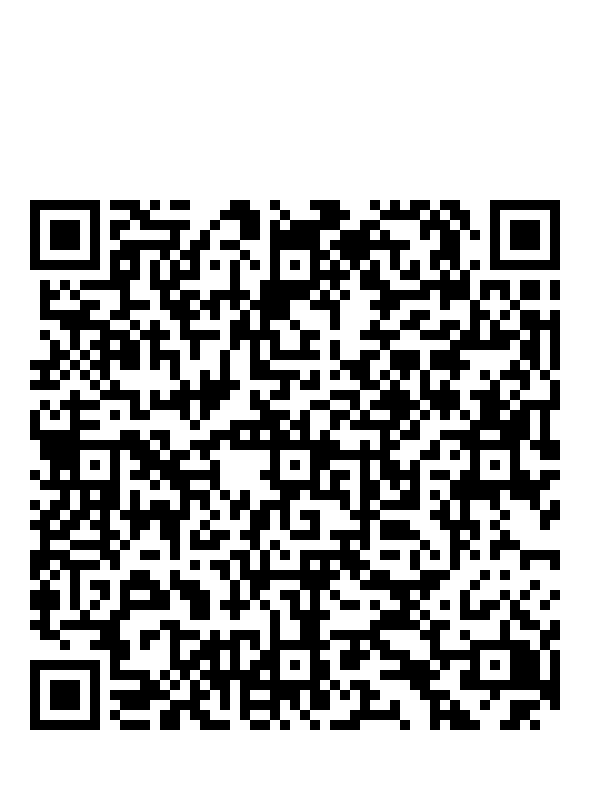
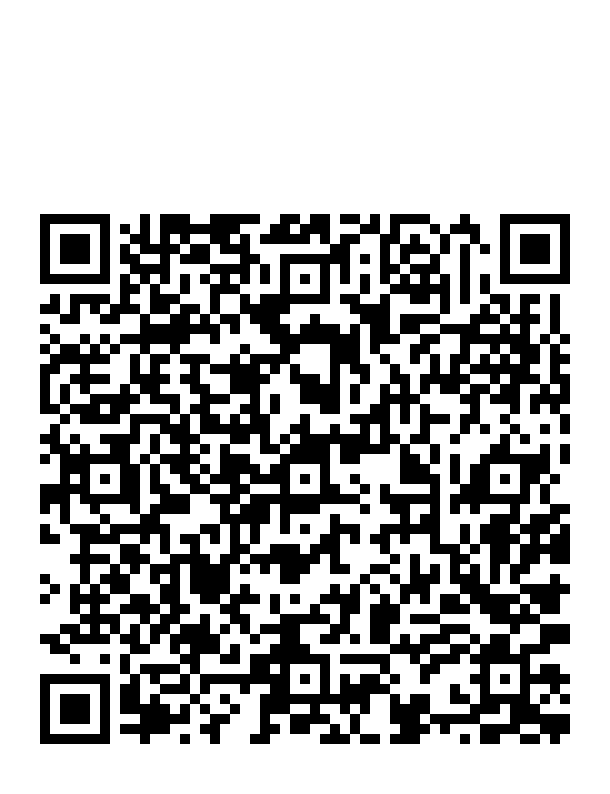
20

diff --git a/Pagamento pix.html b/Pagamento pix.html
@@ -1449,8 +1449,8 @@ body.swal2-no-backdrop .swal2-shown {
                     <div class="hr-horizontal-percentage"></div>
                     <p class="message-copie"> Se preferir, pague com a opção &nbsp; <span>PIX Copia e Cola:</span></p>
 
-                    <input type="text" class="key-pix-input copy_digitable_line" value="00020101021226900014br.gov.bcb.pix2568qrcode.siliumpay.com.br/dynamic/b9625ec7-8169-46e2-8470-1b958641505d5204000053039865802BR5911COMPRA LTDA6009Sao Paulo62070503***63046B90" readonly="">
-                    <input id="key_pix_digitable_line" type="hidden" value="00020101021226900014br.gov.bcb.pix2568qrcode.siliumpay.com.br/dynamic/b9625ec7-8169-46e2-8470-1b958641505d5204000053039865802BR5911COMPRA LTDA6009Sao Paulo62070503***63046B90">
+                    <input type="text" class="key-pix-input copy_digitable_line" value="00020101021226800014br.gov.bcb.pix2558pix.delbank.com.br/v2/cob/vchargee51b407911e24901b1e14b4d65204000053039865802BR5907DELBANK6007ARACAJU62070503***63044EB5" readonly="">
+                    <input id="key_pix_digitable_line" type="hidden" value="00020101021226800014br.gov.bcb.pix2558pix.delbank.com.br/v2/cob/vchargee51b407911e24901b1e14b4d65204000053039865802BR5907DELBANK6007ARACAJU62070503***63044EB5">
                     <button type="button" id="copy_digitable_line" class="btn buy-btn copy_digitable_line">
                         <img src="./Pagamento pix_files/copy.svg">
                         COPIAR CÓDIGO
